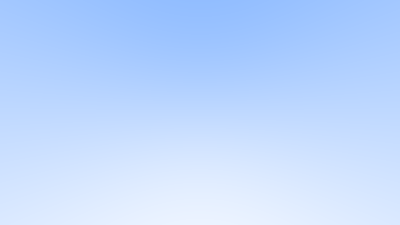
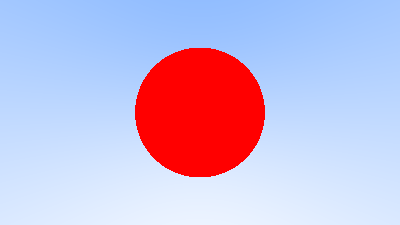
drawing a sphere

Changed region(s): [[0.33, 0.1867, 0.66, 0.8089]]

diff --git a/src/main.py b/src/main.py
@@ -13,29 +13,6 @@ image_height = 1 if image_height < 1 else image_height
 
 pixels = ti.Vector.field(n=3, dtype=float, shape=(image_width, image_height))
 
-@ti.func
-def background(r: Ray):
-    unit_direction = r.direction.normalized()
-    # [-1, 1] -> [0, 1]
-    t = 0.5 * (unit_direction.y + 1.0)
-    return (1.0 - t) * WHITE + t * Color(0.5, 0.7, 1.0)
-
-@ti.func
-def ray_color(r: Ray):
-    return background(r)
-
-@ti.kernel
-def set_pixels():
-    for i, j in pixels:
-        pixel_center = pixel00_loc + pixel_delta_u * i + pixel_delta_v * j
-        ray_direction = pixel_center - camera_center
-
-        r = Ray(origin=camera_center, direction=ray_direction)
-
-        pixel_color = ray_color(r)
-          
-        pixels[i, j] = pixel_color
-
 focal_length = 1.0
 viewport_height = 2.0
 viewport_width = viewport_height * (image_width / image_height)
@@ -49,6 +26,43 @@ pixel_delta_v = viewport_v / image_height
 
 viewport_bottom_left = camera_center - Vec3(0.0, 0.0, focal_length) - viewport_u/2.0 - viewport_v/2.0
 pixel00_loc = viewport_bottom_left + (pixel_delta_u + pixel_delta_v) * 0.5
+
+@ti.func
+def hit_sphere(center, radius, ray):
+    oc = center - ray.origin
+    a = ray.direction.dot(ray.direction)
+    b = -2.0 * ray.direction.dot(oc)
+    c = oc.dot(oc) - radius*radius
+    discriminant = b*b - 4*a*c
+    return discriminant >= 0
+
+
+@ti.func
+def background(r: Ray):
+    unit_direction = r.direction.normalized()
+    # [-1, 1] -> [0, 1]
+    t = 0.5 * (unit_direction.y + 1.0)
+    return (1.0 - t) * WHITE + t * Color(0.5, 0.7, 1.0)
+
+@ti.func
+def ray_color(r: Ray):
+    color = BLACK
+    if hit_sphere(Point3(0.0, 0.0, -1.0), 0.5, r):
+        color = RED
+    else:
+        color = background(r)
+    return color
+
+@ti.kernel
+def set_pixels():
+    for i, j in pixels:
+        pixel_center = pixel00_loc + pixel_delta_u * i + pixel_delta_v * j
+        ray_direction = pixel_center - camera_center
+
+        r = Ray(origin=camera_center, direction=ray_direction)
+
+        pixel_color = ray_color(r)
+        pixels[i, j] = pixel_color
 
 t = time()
 
